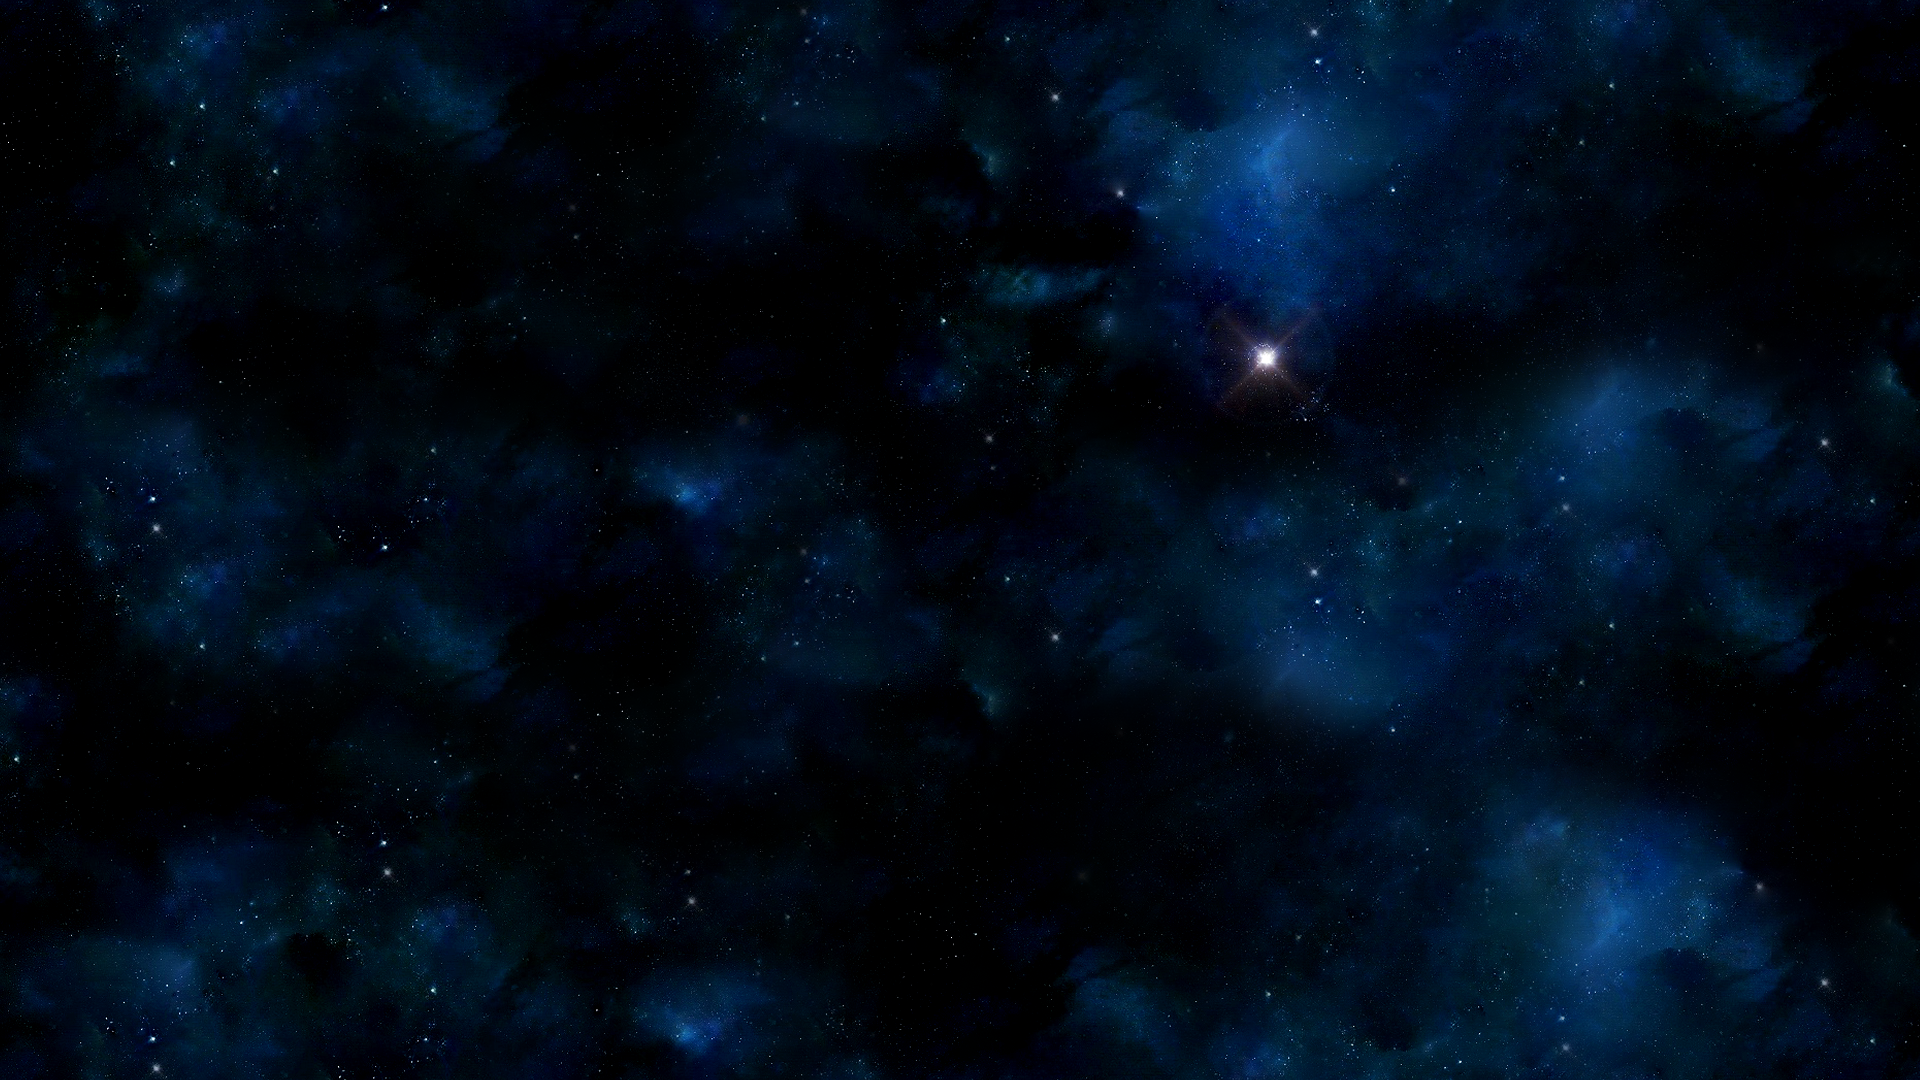
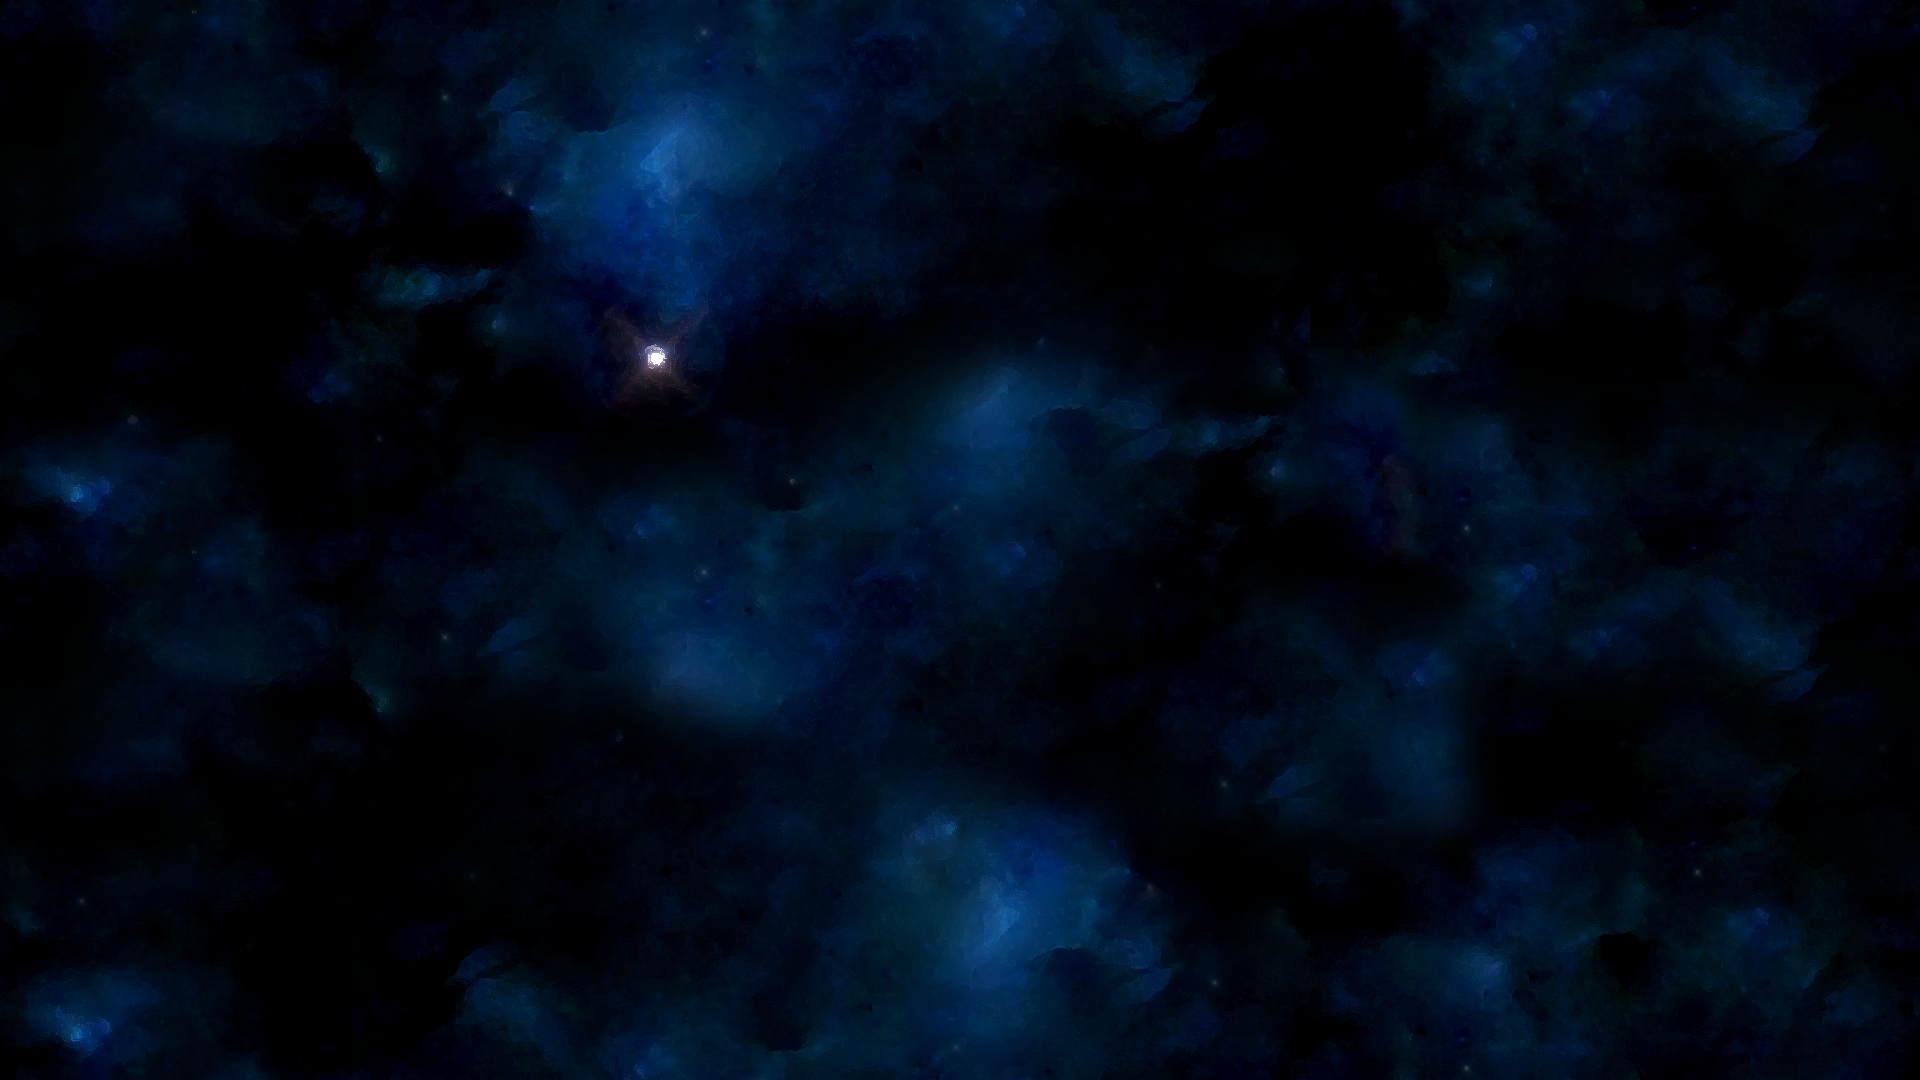
add some background lighting

diff --git a/LunarMooner/src/MenuBackgroundState.cpp b/LunarMooner/src/MenuBackgroundState.cpp
@@ -38,6 +38,7 @@ source distribution.
 #include <xygine/components/AnimatedDrawable.hpp>
 #include <xygine/components/PointLight.hpp>
 #include <xygine/components/AudioSource.hpp>
+#include <xygine/components/QuadTreeComponent.hpp>
 #include <xygine/shaders/NormalMapped.hpp>
 #include <xygine/util/Random.hpp>
 #include <xygine/PostChromeAb.hpp>
@@ -66,10 +67,10 @@ MenuBackgroundState::MenuBackgroundState(xy::StateStack& ss, Context context)
     m_scene.addPostProcess(pp);
 
     m_shaderResource.preload(LMShaderID::Prepass, xy::Shader::Default::vertex, lm::materialPrepassFrag);
-    m_shaderResource.preload(LMShaderID::NormalMapColoured, xy::Shader::NormalMapped::vertex, NORMAL_FRAGMENT_TEXTURED_SPECULAR_ILLUM);
+    m_shaderResource.preload(LMShaderID::NormalMapColoured, xy::Shader::NormalMapped::vertex, NORMAL_FRAGMENT_TEXTURED);
 
     m_normalMapShader = &m_shaderResource.get(LMShaderID::NormalMapColoured);
-    //m_normalMapShader->setUniform("u_ambientColour", sf::Glsl::Vec3(0.03f, 0.03f, 0.01f));
+    m_normalMapShader->setUniform("u_ambientColour", sf::Glsl::Vec3(0.03f, 0.03f, 0.01f));
 
     setup();
 
@@ -84,16 +85,32 @@ MenuBackgroundState::MenuBackgroundState(xy::StateStack& ss, Context context)
 bool MenuBackgroundState::update(float dt)
 {
     //update lighting
-    /*auto mousePos = getContext().appInstance.getMouseWorldPosition();*/
-    m_lightEntity->setPosition(/*mousePos*/960.f, 540.f);
-    auto light = m_lightEntity->getComponent<xy::PointLight>();
+    auto mousePos = getContext().appInstance.getMouseWorldPosition();
+    m_lightEntity->setPosition(mousePos/*960.f, 540.f*/);
 
-    m_normalMapShader->setUniform("u_pointLightPositions[0]", light->getWorldPosition());
-    m_normalMapShader->setUniform("u_pointLights[0].intensity", light->getIntensity());
-    m_normalMapShader->setUniform("u_pointLights[0].diffuseColour", sf::Glsl::Vec4(light->getDiffuseColour()));
-    m_normalMapShader->setUniform("u_pointLights[0].specularColour", sf::Glsl::Vec4(light->getSpecularColour()));
-    m_normalMapShader->setUniform("u_pointLights[0].inverseRange", light->getInverseRange());
+    auto ents = m_scene.queryQuadTree(m_scene.getVisibleArea());
+    auto i = 0u;
+    for (; i < ents.size() && i < xy::Shader::NormalMapped::MaxPointLights; ++i)
+    {
+        auto light = ents[i]->getEntity()->getComponent<xy::PointLight>();
+        if (light)
+        {
+            const std::string idx = std::to_string(i);
 
+            auto pos = light->getWorldPosition();
+            m_normalMapShader->setUniform("u_pointLightPositions[" + std::to_string(i) + "]", pos);
+            m_normalMapShader->setUniform("u_pointLights[" + idx + "].intensity", light->getIntensity());
+            m_normalMapShader->setUniform("u_pointLights[" + idx + "].diffuseColour", sf::Glsl::Vec4(light->getDiffuseColour()));
+            //m_normalMapShader->setUniform("u_pointLights[" + idx + "].specularColour", sf::Glsl::Vec4(light->getSpecularColour()));
+            m_normalMapShader->setUniform("u_pointLights[" + idx + "].inverseRange", light->getInverseRange());
+        }
+    }
+
+    //switch off inactive lights
+    for (; i < xy::Shader::NormalMapped::MaxPointLights; ++i)
+    {
+        m_normalMapShader->setUniform("u_pointLights[" + std::to_string(i) + "].intensity", 0.f);
+    }
 
     m_scene.update(dt);
     return true;
@@ -133,10 +150,11 @@ void MenuBackgroundState::setup()
     auto background = xy::Component::create<lm::Starfield>(m_messageBus, m_textureResource);
     m_scene.getLayer(xy::Scene::Layer::BackRear).addComponent(background);
     
+    //planets
     auto planet = xy::Component::create<lm::PlanetDrawable>(m_messageBus, 200.f);
     planet->setBaseNormal(m_textureResource.get("assets/images/background/sphere_normal.png"));
-    planet->setDetailNormal(m_textureResource.get("assets/images/background/moon_normal.png"));
-    planet->setDiffuseTexture(m_textureResource.get("assets/images/background/moon_diffuse.png"));
+    planet->setDetailNormal(m_textureResource.get("assets/images/background/moon_normal_02.png"));
+    planet->setDiffuseTexture(m_textureResource.get("assets/images/background/moon_diffuse_02.png"));
     planet->setMaskTexture(m_textureResource.get("assets/images/background/moon_mask.png"));
     planet->setPrepassShader(m_shaderResource.get(LMShaderID::Prepass));
     planet->setNormalShader(*m_normalMapShader);
@@ -152,8 +170,8 @@ void MenuBackgroundState::setup()
 
     auto moon = xy::Component::create<lm::PlanetDrawable>(m_messageBus, 500.f);
     moon->setBaseNormal(m_textureResource.get("assets/images/background/sphere_normal.png"));
-    moon->setDetailNormal(m_textureResource.get("assets/images/background/moon_normal.png"));
-    moon->setDiffuseTexture(m_textureResource.get("assets/images/background/moon_diffuse.png"));
+    moon->setDetailNormal(m_textureResource.get("assets/images/background/moon_normal_02.png"));
+    moon->setDiffuseTexture(m_textureResource.get("assets/images/background/moon_diffuse_02.png"));
     moon->setMaskTexture(m_textureResource.get("assets/images/background/moon_mask.png"));
     moon->setPrepassShader(m_shaderResource.get(LMShaderID::Prepass));
     moon->setNormalShader(*m_normalMapShader);
@@ -164,14 +182,32 @@ void MenuBackgroundState::setup()
 
     m_scene.addEntity(entity, xy::Scene::Layer::FrontRear);
 
-    auto lc = xy::Component::create<xy::PointLight>(m_messageBus, 1200.f);
-    lc->setDepth(700.f);
-    lc->setDiffuseColour({ 240u, 255u, 255u });
+
+    //lights
+    auto lc = xy::Component::create<xy::PointLight>(m_messageBus, 200.f);
+    lc->setDepth(100.f);
+    lc->setDiffuseColour({ 255u, 235u, 185u });
+        
+    auto qtc = xy::Component::create<xy::QuadTreeComponent>(m_messageBus, sf::FloatRect(sf::Vector2f(), {100.f, 100.f}));
     
     entity = xy::Entity::create(m_messageBus);
     entity->setPosition(1160.f, 340.f);
     entity->addComponent(lc);
+    entity->addComponent(qtc);
     m_lightEntity = m_scene.addEntity(entity, xy::Scene::Layer::FrontFront);
+
+    lc = xy::Component::create<xy::PointLight>(m_messageBus, 1200.f);
+    lc->setDepth(600.f);
+    lc->setDiffuseColour({ 255u, 245u, 235u });
+    lc->setIntensity(2.f);
+
+    qtc = xy::Component::create<xy::QuadTreeComponent>(m_messageBus, sf::FloatRect(sf::Vector2f(), { 500.f, 500.f }));
+
+    entity = xy::Entity::create(m_messageBus);
+    entity->setPosition(1160.f, 340.f);
+    entity->addComponent(lc);
+    entity->addComponent(qtc);
+    m_scene.addEntity(entity, xy::Scene::Layer::FrontFront);
 
     //music
     const auto& settings = getContext().appInstance.getAudioSettings();

diff --git a/LunarMooner/src/LMState.cpp b/LunarMooner/src/LMState.cpp
@@ -46,6 +46,8 @@ source distribution.
 #include <xygine/components/ParticleController.hpp>
 #include <xygine/components/SfDrawableComponent.hpp>
 #include <xygine/components/AudioSource.hpp>
+#include <xygine/components/PointLight.hpp>
+#include <xygine/components/QuadTreeComponent.hpp>
 #include <xygine/components/Camera.hpp>
 #include <xygine/shaders/NormalMapped.hpp>
 
@@ -250,6 +252,7 @@ void LunarMoonerState::handleMessage(const xy::Message& msg)
 
 bool LunarMoonerState::update(float dt)
 {
+    //get input
     if(m_useController) parseControllerInput();
     
     if (m_inputFlags != m_prevInputFlags)
@@ -265,6 +268,33 @@ bool LunarMoonerState::update(float dt)
         m_scene.sendCommand(cmd);
     }
     
+    //update lights
+    auto& normalMapShader = m_shaderResource.get(LMShaderID::NormalMapColoured);
+    auto ents = m_scene.queryQuadTree(m_scene.getVisibleArea());
+    auto i = 0u;
+    for (; i < ents.size() && i < xy::Shader::NormalMapped::MaxPointLights; ++i)
+    {
+        auto light = ents[i]->getEntity()->getComponent<xy::PointLight>();
+        if (light)
+        {
+            const std::string idx = std::to_string(i);
+
+            auto pos = light->getWorldPosition();
+            normalMapShader.setUniform("u_pointLightPositions[" + std::to_string(i) + "]", pos);
+            normalMapShader.setUniform("u_pointLights[" + idx + "].intensity", light->getIntensity());
+            normalMapShader.setUniform("u_pointLights[" + idx + "].diffuseColour", sf::Glsl::Vec4(light->getDiffuseColour()));
+            //normalMapShader.setUniform("u_pointLights[" + idx + "].specularColour", sf::Glsl::Vec4(light->getSpecularColour()));
+            normalMapShader.setUniform("u_pointLights[" + idx + "].inverseRange", light->getInverseRange());
+        }
+    }
+
+    //switch off inactive lights
+    for (; i < xy::Shader::NormalMapped::MaxPointLights; ++i)
+    {
+        normalMapShader.setUniform("u_pointLights[" + std::to_string(i) + "].intensity", 0.f);
+    }
+
+
     m_scene.update(dt);
     m_collisionWorld.update();
 
@@ -591,6 +621,8 @@ void LunarMoonerState::buildBackground()
     m_shaderResource.preload(LMShaderID::NormalMapColoured, xy::Shader::NormalMapped::vertex, NORMAL_FRAGMENT_TEXTURED);
     m_shaderResource.preload(LMShaderID::Prepass, xy::Shader::Default::vertex, lm::materialPrepassFrag);
     
+    m_shaderResource.get(LMShaderID::NormalMapColoured).setUniform("u_ambientColour", sf::Glsl::Vec3(0.03f, 0.03f, 0.01f));
+
     //nuke effect
     auto ne = xy::Component::create<lm::NukeEffect>(m_messageBus, sf::Vector2f(alienArea.width, 1080.f));
     auto camera = xy::Component::create<xy::Camera>(m_messageBus, m_scene.getView());
@@ -772,8 +804,8 @@ void LunarMoonerState::buildBackground()
 
     auto moon = xy::Component::create<lm::PlanetDrawable>(m_messageBus, moonWidth);
     moon->setBaseNormal(m_textureResource.get("assets/images/background/sphere_normal.png"));
-    moon->setDetailNormal(m_textureResource.get("assets/images/background/moon_normal.png"));
-    moon->setDiffuseTexture(m_textureResource.get("assets/images/background/moon_diffuse.png"));
+    moon->setDetailNormal(m_textureResource.get("assets/images/background/moon_normal_02.png"));
+    moon->setDiffuseTexture(m_textureResource.get("assets/images/background/moon_diffuse_02.png"));
     moon->setMaskTexture(m_textureResource.get("assets/images/background/moon_mask.png"));
     moon->setPrepassShader(m_shaderResource.get(LMShaderID::Prepass));
     moon->setNormalShader(m_shaderResource.get(LMShaderID::NormalMapColoured));
@@ -783,6 +815,20 @@ void LunarMoonerState::buildBackground()
     entity->setPosition(960.f - (moonWidth), 540.f);
     entity->addComponent(moon);
     m_scene.addEntity(entity, xy::Scene::Layer::BackRear);
+
+    //background lighting
+    auto lc = xy::Component::create<xy::PointLight>(m_messageBus, 1200.f);
+    lc->setDepth(400.f);
+    lc->setDiffuseColour({ 255u, 245u, 235u });
+    lc->setIntensity(1.2f);
+
+    auto qtc = xy::Component::create<xy::QuadTreeComponent>(m_messageBus, sf::FloatRect(sf::Vector2f(), { 500.f, 500.f }));
+
+    entity = xy::Entity::create(m_messageBus);
+    entity->setPosition(alienArea.left + alienArea.width, 540.f);
+    entity->addComponent(lc);
+    entity->addComponent(qtc);
+    m_scene.addEntity(entity, xy::Scene::Layer::FrontFront);
 }
 
 void LunarMoonerState::updateLoadingScreen(float dt, sf::RenderWindow& rw)

diff --git a/LunarMooner/src/LMGameController.cpp b/LunarMooner/src/LMGameController.cpp
@@ -47,6 +47,8 @@ source distribution.
 
 #include <xygine/components/SfDrawableComponent.hpp>
 #include <xygine/components/AudioSource.hpp>
+#include <xygine/components/PointLight.hpp>
+#include <xygine/components/QuadTreeComponent.hpp>
 #include <xygine/util/Position.hpp>
 #include <xygine/util/Random.hpp>
 #include <xygine/util/Vector.hpp>
@@ -1204,12 +1206,23 @@ void GameController::spawnAsteroid(const sf::Vector2f& position)
     };
     as->addMessageHandler(mh);
 
+
+    //lights!
+    auto lc = xy::Component::create<xy::PointLight>(getMessageBus(), 200.f);
+    lc->setDepth(150.f);
+    lc->setDiffuseColour({ 255u, 185u, 135u });
+    lc->setIntensity(0.8f);
+
+    auto qtc = xy::Component::create<xy::QuadTreeComponent>(getMessageBus(), sf::FloatRect(sf::Vector2f(), { 100.f, 100.f }));
+
     auto entity = xy::Entity::create(getMessageBus());
     entity->addComponent(drawable);
     entity->addComponent(ps);
     entity->addComponent(controller);
     entity->addComponent(collision);
     entity->addComponent(as);
+    entity->addComponent(lc);
+    entity->addComponent(qtc);
     entity->setPosition(position);
 
     m_scene.addEntity(entity, xy::Scene::Layer::BackMiddle);
